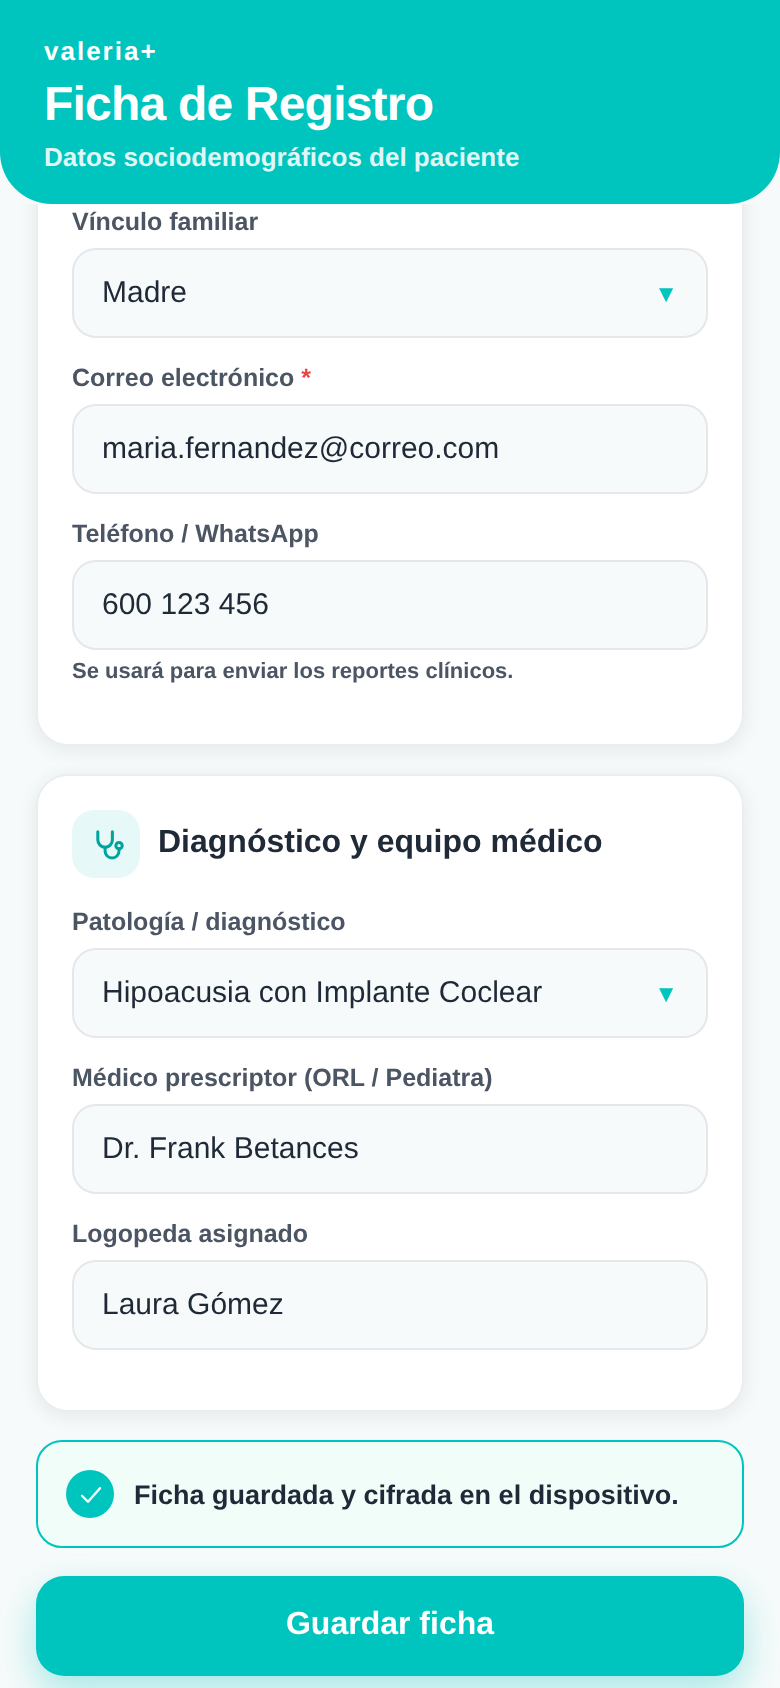
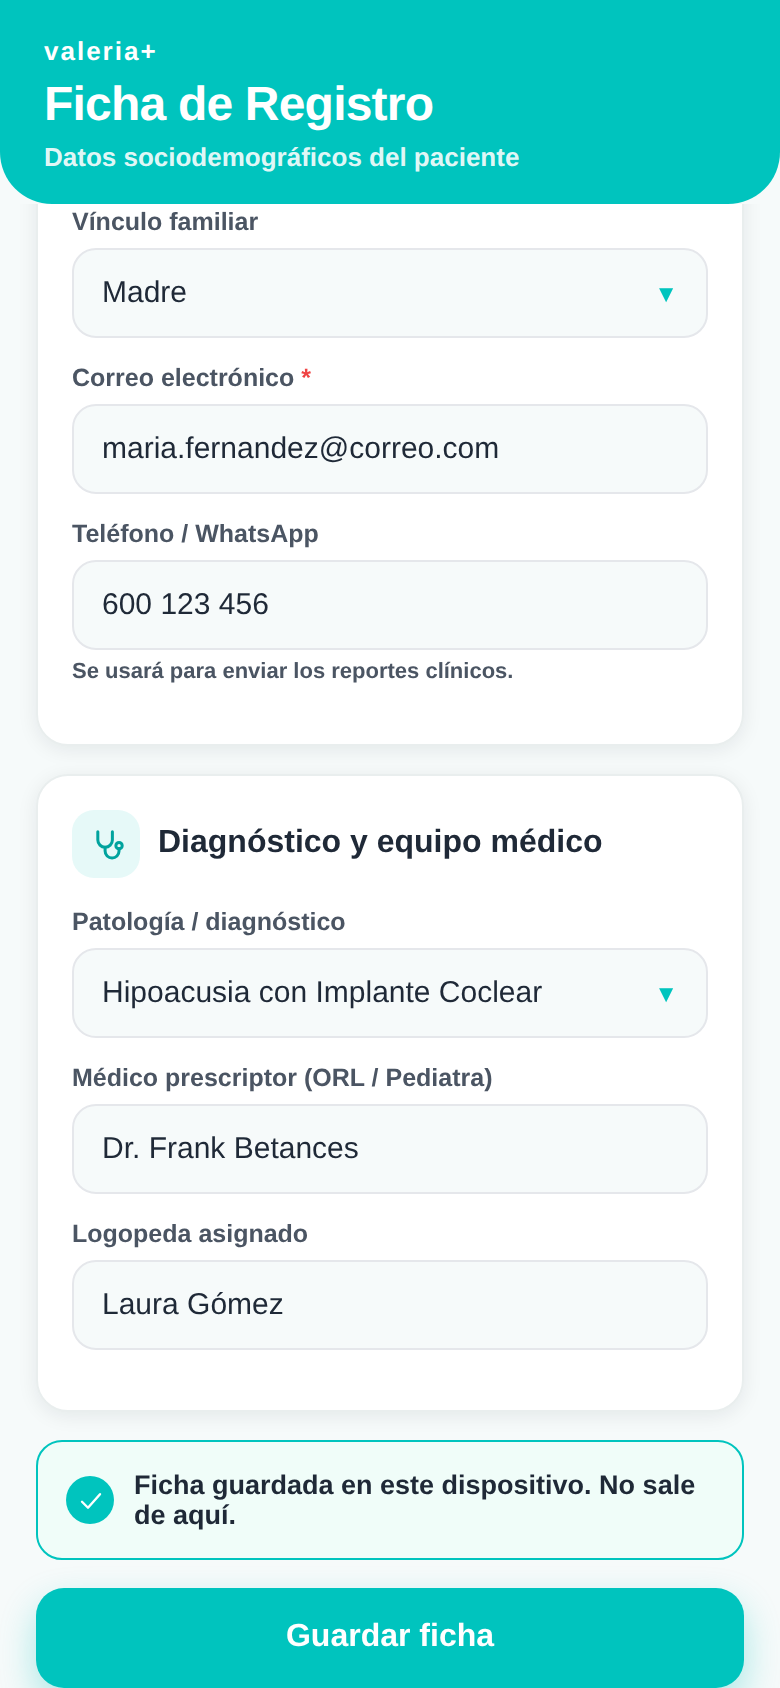
README y manual dejan de describir un campo que ya no existe, y el manual deja de prometer un cifrado que la ficha nunca tuvo
NO CAMBIA NADA EN LA APP. Documentación y dos capturas.

QUÉ ESTABA MAL
1. El campo «Lengua de la terapia» de la Ficha de Registro se retiró el 7/9
   (f09e46d) y README seguía describiéndolo como la forma de fijar la variedad
   del paciente, en tres sitios: el párrafo de GL-5.2, la fila del galego de la
   tabla de idiomas y el apartado del pliegue dialectal.
2. El manual decía que la ficha se guarda «cifrada» y que la confirmación dice
   «Ficha guardada y cifrada». Las dos cosas eran falsas desde antes de este
   cambio: la ficha se guarda con JSON.stringify —está anotado en SECURITY.md y
   en §6 de play-console-seguridad-datos.md— y el texto de la app pasó a «Ficha
   guardada en este dispositivo. No sale de aquí.» en 6fad83b. La captura
   04-ficha-guardada.png seguía enseñando el texto viejo.

QUÉ DICE AHORA
· README: la variedad es un ajuste global y se elige en «Voz de la app». El
  intento de llevarla a la ficha queda contado con su fecha y su motivo de
  retirada, y GL-5.2 queda marcada como a medias — lo que sí sobrevive es el
  `locale`/`localeSwitched` de cada sesión de telemetría.
· README, pliegue galego: el mecanismo del seseo EXISTE y funciona
  (`setGalicianDialect`, `foldGalician`, PM-GL-3 fuera del banco), pero se queda
  sin puerta de entrada: hoy todo paciente queda en «distingue s/z» y en el
  occidente PM-GL-3 vuelve a medir la variedad del niño, no su fonología. Queda
[…]

Changed region(s): [[0.0308, 0.8626, 0.9538, 1.0]]

diff --git a/docs/manual-casos-de-uso.html b/docs/manual-casos-de-uso.html
@@ -276,14 +276,14 @@
   <div class="task">
     <div class="th"><span class="n">Paso 1</span><span class="t">Crear la ficha del niño</span></div>
     <div class="tb">
-      <p class="lead">Se hace una sola vez. Los datos se guardan cifrados en el aparato y no salen de él.</p>
+      <p class="lead">Se hace una sola vez. Los datos se guardan en el aparato y no salen de él: la app no tiene servidor ni cuentas.</p>
       <ol class="steps">
         <li>Abrir la app y pulsar <strong>«Comenzar»</strong>. Pasar la pantalla de créditos con <strong>«Continuar»</strong>.</li>
         <li>Elegir <strong>«Paciente nuevo»</strong>.</li>
         <li>Rellenar los datos del niño: <strong>nombre y apellidos</strong>, fecha de nacimiento, <strong>NHC</strong> y género.</li>
         <li>Rellenar los del <strong>tutor</strong>: nombre, vínculo, <strong>correo</strong> y teléfono.</li>
         <li>Elegir la <strong>patología</strong> y anotar el médico y el logopeda.</li>
-        <li>Pulsar <strong>«Guardar ficha»</strong>. Sale la confirmación «Ficha guardada y cifrada».</li>
+        <li>Pulsar <strong>«Guardar ficha»</strong>. Sale la confirmación «Ficha guardada en este dispositivo. No sale de aquí.».</li>
       </ol>
       <div class="ifs"><div class="lbl">Y si…</div><ul>
         <li><strong>Un campo se pone rojo:</strong> falta un dato obligatorio o el correo no tiene formato válido. No guarda hasta corregirlo.</li>
@@ -291,7 +291,7 @@
       </ul></div>
       <div class="shots">
         <figure class="shot"><img src="screenshots/03-ficha-registro.png" alt="Ficha de registro"><figcaption><span class="fig"></span> · La ficha, con los campos obligatorios marcados.</figcaption></figure>
-        <figure class="shot"><img src="screenshots/04-ficha-guardada.png" alt="Ficha guardada"><figcaption><span class="fig"></span> · Guardada y cifrada en el aparato.</figcaption></figure>
+        <figure class="shot"><img src="screenshots/04-ficha-guardada.png" alt="Ficha guardada"><figcaption><span class="fig"></span> · Guardada en el aparato. No sale de aquí.</figcaption></figure>
       </div>
     </div>
   </div>
@@ -884,7 +884,7 @@
     <tr><td>La racha volvió a cero</td><td>Pasó más de un día sin practicar. Active los recordatorios. La mejor racha no se borra y las insignias ganadas se conservan.</td></tr>
     <tr><td>No encuentra las insignias</td><td>En «Premios ›», en la tarjeta de Lúa. No hace falta PIN.</td></tr>
     <tr><td>Las sesiones de la Pizarra Mágica no salen en los resultados</td><td>Es correcto: la pizarra no puntúa. Es práctica libre, no una medida.</td></tr>
-    <tr><td>¿Se pierden los datos al cerrar la app?</td><td>No. Todo se guarda cifrado en el aparato.</td></tr>
+    <tr><td>¿Se pierden los datos al cerrar la app?</td><td>No. Todo se guarda en el aparato: el progreso y la telemetría, cifrados; la ficha del paciente, sin cifrar.</td></tr>
   </table>
 
   <h3>Permisos y prescripción</h3>
